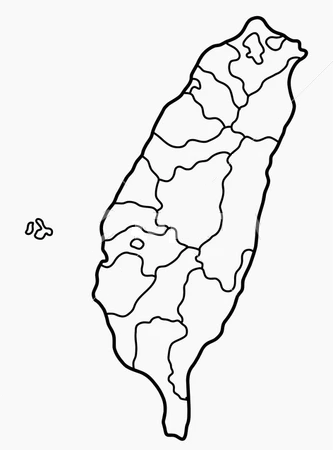
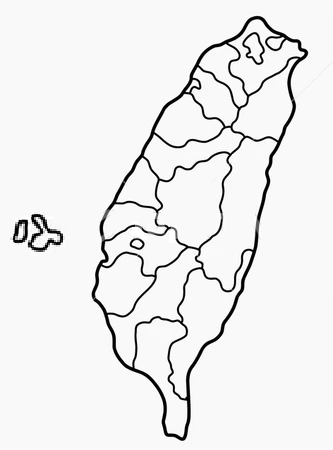
feat PaintWhiteConnectedArea

Changed region(s): [[0.03, 0.4667, 0.2102, 0.56]]

diff --git a/ImagePixelDemo/Form1.cs b/ImagePixelDemo/Form1.cs
@@ -182,7 +182,7 @@ namespace ImagePixelDemo
                     // g.Clear(Color.White); 
 
                     // 3. Define the Font and Brush for the text
-                    using (Font myFont = new Font("Arial", 8, FontStyle.Bold))
+                    using (Font myFont = new Font("Arial", 6, FontStyle.Regular))
                     using (Brush myBrush = new SolidBrush(Color.Black))
                     {
                         // Set rendering hint for smooth text
@@ -245,10 +245,67 @@ namespace ImagePixelDemo
         }
         void PaintQuizArea(int index)
         {
-            PaintArea(List_cities[index].Latitude, List_cities[index].Longitude, 25, 25);
+            // PaintArea(List_cities[index].Latitude, List_cities[index].Longitude, 25, 25);//old method
+            // Apply the color fill to white pixels
+            PaintWhiteConnectedArea(List_cities[index].Latitude, List_cities[index].Longitude);
+            // PaintNumberArea(List_cities[index].Latitude, List_cities[index].Longitude, 25, 25);
             pictureBox.Refresh();
         }
-        void PaintArea(int cx, int cy, int w, int h)
+        bool IsWhite(Color c)
+        {
+            // Tolerate a slight error, avoid JPG compression issues.
+            return c.R > 240 && c.G > 240 && c.B > 240;
+        }
+        void PaintWhiteConnectedArea(int cx, int cy)
+        {
+            if (cx < 0 || cy < 0 || cx >= bitmap.Width || cy >= bitmap.Height)
+                return;
+
+            Color startColor = bitmap.GetPixel(cx, cy);
+            if (!IsWhite(startColor))
+            {
+                MessageBox.Show($"Not white cx:{cx}, cy:{cy}");
+                return; // If the starting point is not white, then skip it.
+            }
+
+            float alpha = 0.4f;
+            Color overlay = Color.Yellow;
+
+            bool[,] visited = new bool[bitmap.Width, bitmap.Height];
+            Stack<Point> stack = new Stack<Point>();
+            stack.Push(new Point(cx, cy));
+
+            while (stack.Count > 0)
+            {
+                Point p = stack.Pop();
+
+                if (p.X < 0 || p.Y < 0 || p.X >= bitmap.Width || p.Y >= bitmap.Height)
+                    continue;
+
+                if (visited[p.X, p.Y])
+                    continue;
+
+                Color src = bitmap.GetPixel(p.X, p.Y);
+                if (!IsWhite(src))
+                    continue;
+
+                visited[p.X, p.Y] = true;
+
+                // alpha blend
+                int r = (int)(src.R * (1 - alpha) + overlay.R * alpha);
+                int g = (int)(src.G * (1 - alpha) + overlay.G * alpha);
+                int b = (int)(src.B * (1 - alpha) + overlay.B * alpha);
+
+                bitmap.SetPixel(p.X, p.Y, Color.FromArgb(src.A, r, g, b));
+
+                // Spread in four directions
+                stack.Push(new Point(p.X + 1, p.Y));
+                stack.Push(new Point(p.X - 1, p.Y));
+                stack.Push(new Point(p.X, p.Y + 1));
+                stack.Push(new Point(p.X, p.Y - 1));
+            }
+        }
+        void PaintNumberArea(int cx, int cy, int w, int h)
         {
             int sx = cx - w / 4;
             int sy = cy - h / 4;
